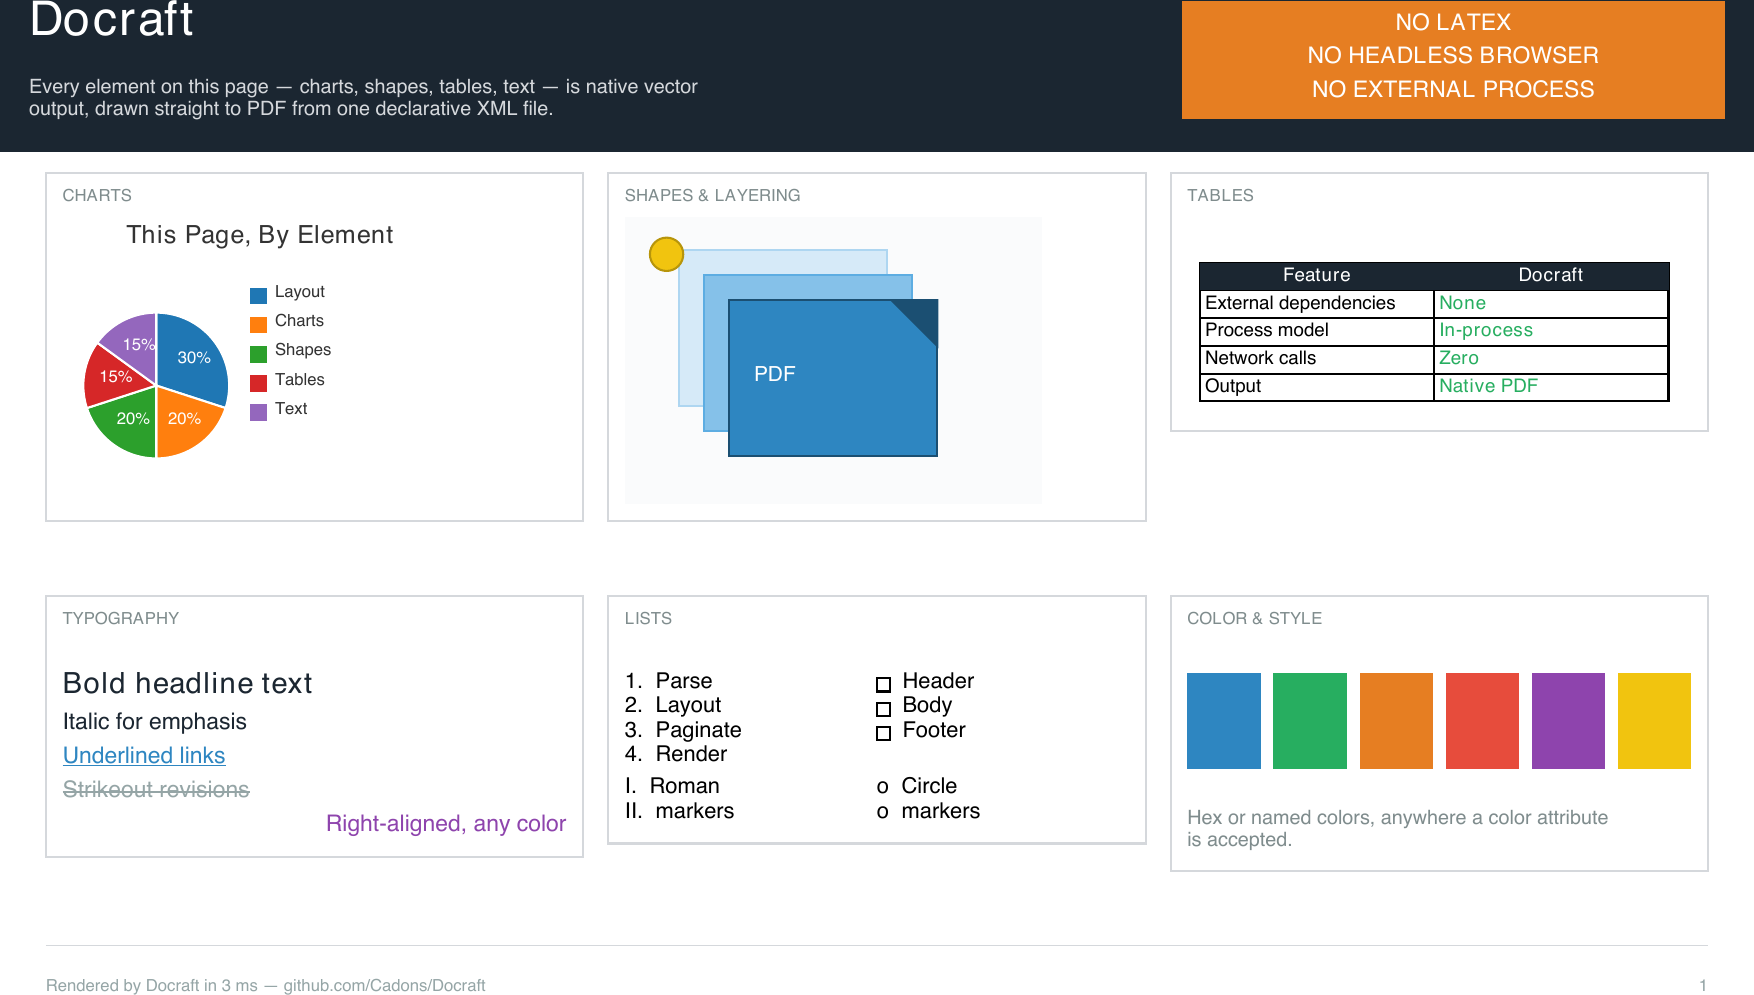
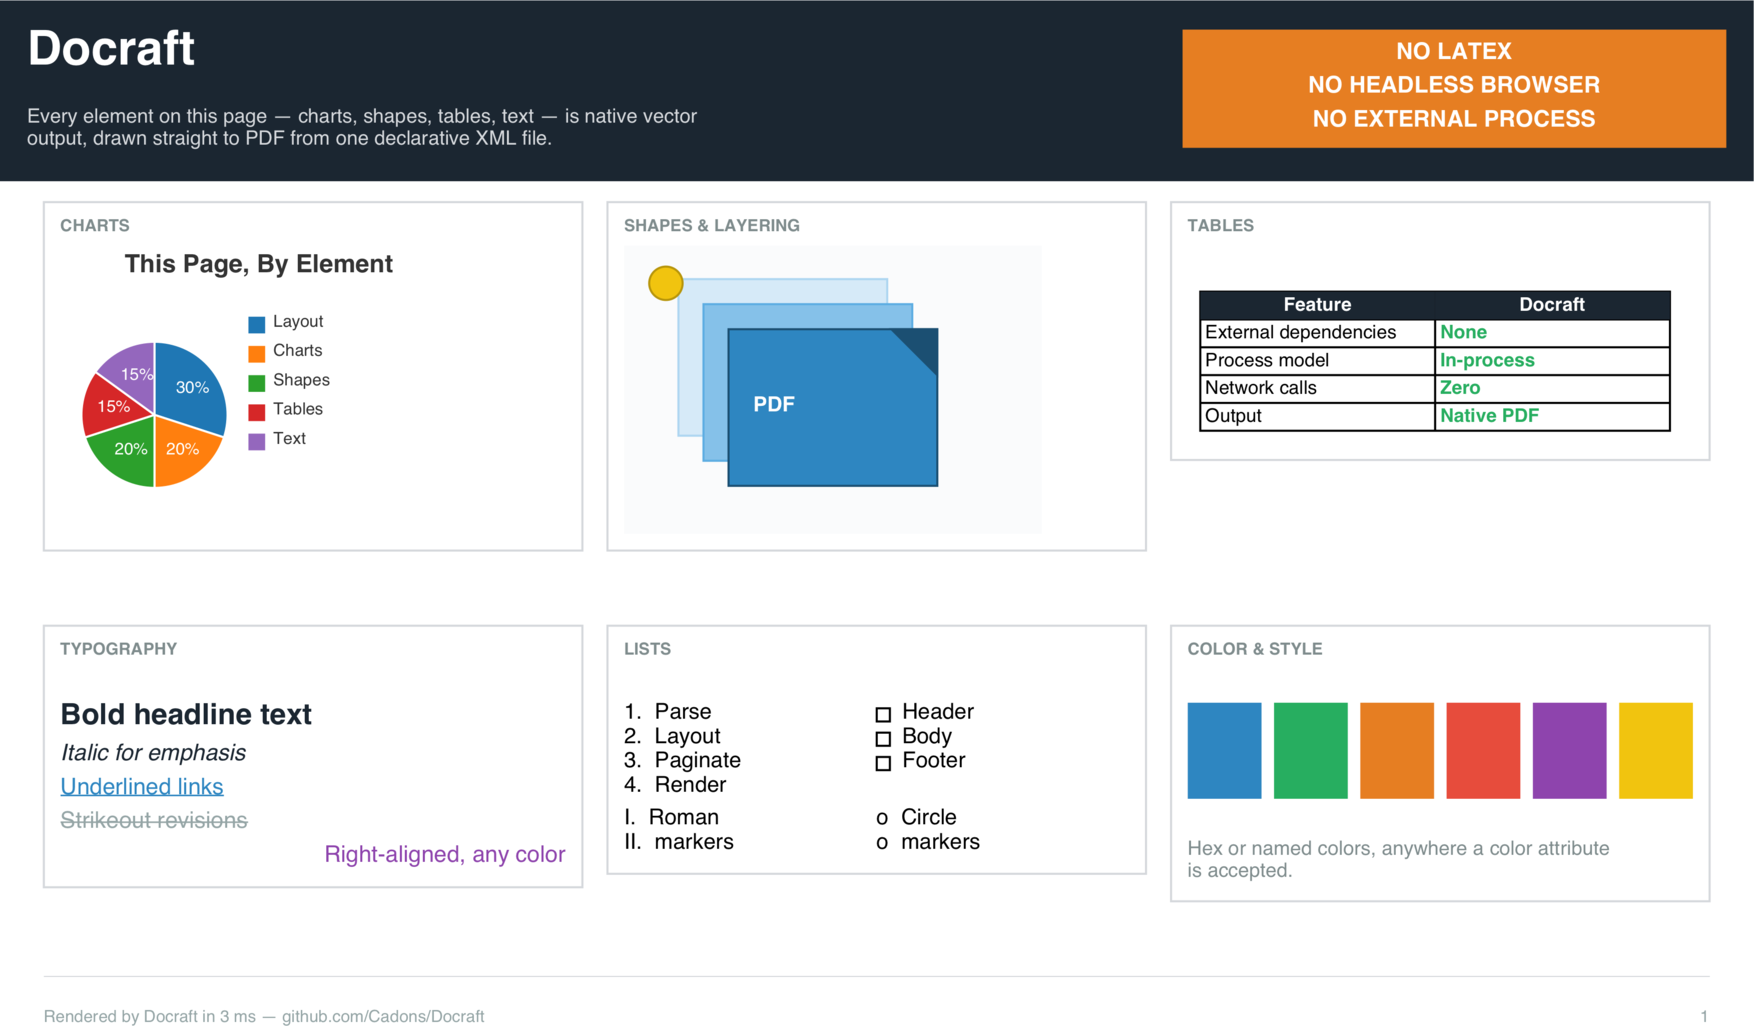
docs(README): dedicated charts demo, fix italic rendering, tighten QR spacing
Replace the reused sales_report screenshot with a purpose-built chart
gallery (assets/readme/charts.craft) covering all five Chart styles
(pie, histogram, spline, line, scatter) plus a literal snippet showing
each is one <Chart> tag -- keeps every README visual original instead
of duplicating a doc example, with source alongside each image.

Regenerate showcase.png via macOS's native PDF renderer instead of
poppler/pdftoppm: the PDF always correctly embedded Helvetica-Oblique,
but pdftoppm on this machine silently substitutes an upright face for
oblique built-in fonts, so the "Italic for emphasis" line looked
non-italic in the committed screenshot despite being correct in the
actual PDF.

Shipping label: enlarge the QR from 100pt to 125pt and drop the Blank
above it so it sits close under "SCAN TO TRACK" instead of leaving a
tall gap against the package-details table beside it; recentered with
the same weights-sum-to-width trick. doc/source/examples/shipping_label.rst
updated to match.

diff --git a/README.md b/README.md
@@ -40,9 +40,9 @@ headless browser, and no network call in sight. It's just as much at home
 with an everyday business document as it is with a chart-driven report:
 
 <p align="center">
-  <img src="doc/source/_static/shipping_label.png" alt="A realistic courier shipping label rendered by Docraft: branded header, Code128 barcode, prominent destination block, handling badges, a package-details table, and a QR code" width="320">
+  <img src="doc/source/_static/shipping_label.png" alt="A realistic courier shipping label rendered by Docraft: branded header, Code128 barcode, prominent destination block, handling badges, a package-details table, and a QR code" width="300">
   &nbsp;&nbsp;
-  <img src="doc/source/_static/sales_report_page1.png" alt="A Docraft-rendered sales report: KPI cards, a pie chart, a regional bar chart, and a year-over-year trend chart" width="320">
+  <img src="assets/readme/charts.png" alt="A Docraft chart gallery: pie, histogram, spline, line, and scatter charts, each drawn from a single Chart tag with no charting library involved" width="420">
 </p>
 
 Every one of them comes from the same two-step build:
@@ -52,13 +52,14 @@ cmake -S . -B build -DCMAKE_BUILD_TYPE=Release && cmake --build build -j
 
 ./build/artifacts/bin/docraft_tool showcase.craft        showcase.pdf        --data showcase.json
 ./build/artifacts/bin/docraft_tool shipping_label.craft  shipping_label.pdf  --data shipping_label.json
-./build/artifacts/bin/docraft_tool sales_report.craft    sales_report.pdf    --data sales_report.json
+./build/artifacts/bin/docraft_tool charts.craft          charts.pdf          --data charts.json
 ```
 
-The full source for each is in the repo — [`assets/readme/showcase.craft`](assets/readme/showcase.craft),
-[`assets/readme/shipping_label.craft`](assets/readme/shipping_label.craft),
-and the [sales report example](https://cadons.github.io/docraft/examples/sales_report.html) —
-plus more document types (invoices, QC reports...) in the
+The full source for all three lives in [`assets/readme/`](assets/readme/) —
+[`showcase.craft`](assets/readme/showcase.craft),
+[`shipping_label.craft`](assets/readme/shipping_label.craft),
+[`charts.craft`](assets/readme/charts.craft) — plus more document types
+(invoices, sales reports, QC reports...) in the
 [full example gallery](https://cadons.github.io/docraft/examples/index.html).
 
 ---

diff --git a/doc/source/examples/shipping_label.rst b/doc/source/examples/shipping_label.rst
@@ -104,10 +104,9 @@ Template — ``shipping_label.craft``
                <Text weight="10"> </Text>
                <Layout weight="145" orientation="vertical">
                    <Text alignment="center" font_size="7" color="#95A5A6">SCAN TO TRACK</Text>
-                   <Blank/>
-                   <Layout orientation="horizontal" weights="23,100,22">
+                   <Layout orientation="horizontal" weights="10,125,10">
                        <Text> </Text>
-                       <Image src="${qr_code}" width="100" height="100"/>
+                       <Image src="${qr_code}" width="125" height="125"/>
                        <Text> </Text>
                    </Layout>
                </Layout>
